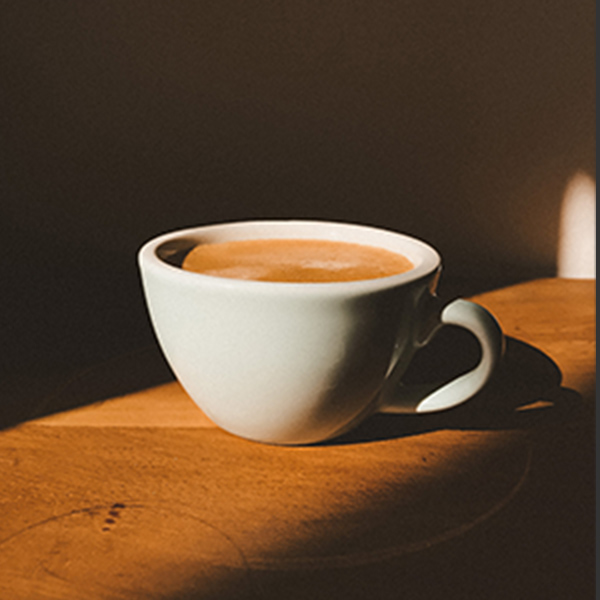
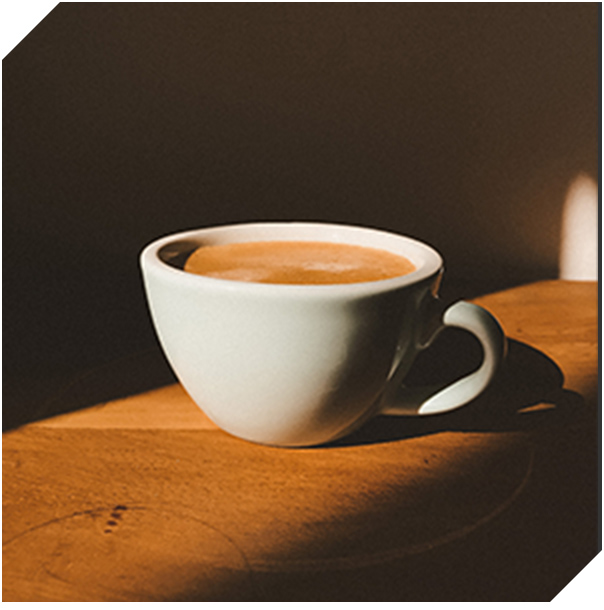
メニューページ・コンタクトページトップ画像変更

diff --git a/menupage/css/menupage.css b/menupage/css/menupage.css
@@ -12,6 +12,7 @@ body {
 #menutopimg {
     width: 100%;
     margin: 0 auto;
+    position: relative;
 }
 
 #menutopimg img {
@@ -19,6 +20,14 @@ body {
     margin: 0 auto;
 }
 
+#menutopinner {
+    position: absolute;
+    top: 34%;
+    left: 20%;
+    font-size: 1.5vw;
+    color: #fff;
+    text-shadow: 1.5px 1px 6px #333;
+}
 
 .ScrollTop.isActive {
     z-index: 4;
@@ -37,11 +46,7 @@ article {
     margin: 0 auto;
 }
 
-h1 {
-    display: inline-block;
-    padding: 15px 30%;
-    color: #333;
-}
+
 
 h2 {
     display: inline-block;
@@ -49,6 +54,7 @@ h2 {
     border-bottom: 2px solid #333;
     margin: 40px 0;
     font-size: 2rem;
+    letter-spacing: 1px;
 }
 
 #coffeemenu {
@@ -69,7 +75,7 @@ h2 {
 #coffeemenu-fg img {
     width: 100%;
     height: auto;
-    opacity: 0.9;
+    opacity: 0.8;
 }
 
 figure {
@@ -105,7 +111,7 @@ figcaption {
 #sandwichmenu-fg img {
     width: 100%;
     height: auto;
-    opacity: 0.9;
+    opacity: 0.8;
 }
 
 #menusubtitle {
@@ -129,6 +135,10 @@ figcaption {
 }
 
 @media screen and (max-width:520px) {
+    #menutopinner {
+        left: 40%;
+        font-size: 0.7rem;
+    }
 
     #coffeemenu-fg {
         padding: 0;

diff --git a/js/contactpage.js b/js/contactpage.js
@@ -3,11 +3,9 @@ jQuery(window).on('scroll', function () {
     if (contacttopimgHeight < jQuery(this).scrollTop()) {
         jQuery('#header ul a').addClass('change-color');
         jQuery('#hambicon img').attr('src','../common/img/hambblack@2x.png');
-        jQuery('#header').addClass('headerbg');
     } else {
         jQuery('#header ul a').removeClass('change-color');
         jQuery('#hambicon img').attr('src','../common/img/hambwhite@2x.png');
-        jQuery('#header').removeClass('headerbg');
     }
 });
 
@@ -33,4 +31,10 @@ $(window).on('scroll', function () {
     } else {
         $contactgetop.addClass('isActive');
     }
+});
+
+$(function(){
+    $('#header nav').on('click',function(){
+        $('#header').removeClass('hambset');
+    });
 });

diff --git a/js/menupage.js b/js/menupage.js
@@ -3,11 +3,9 @@ jQuery(window).on('scroll', function () {
     if (menutopimgHeight < jQuery(this).scrollTop()) {
         jQuery('#header ul a').addClass('change-color');
         jQuery('#hambicon img').attr('src','../common/img/hambblack@2x.png');
-        jQuery('#header').addClass('headerbg');
     } else {
         jQuery('#header ul a').removeClass('change-color');
         jQuery('#hambicon img').attr('src','../common/img/hambwhite@2x.png');
-        jQuery('#header').addClass('headerbg');
     }
 });
 
@@ -33,4 +31,10 @@ $(window).on('scroll', function () {
     } else {
         $menupagetop.addClass('isActive');
     }
+});
+
+$(function(){
+    $('#header nav').on('click',function(){
+        $('#header').removeClass('hambset');
+    });
 });

diff --git a/contact/css/contact.css b/contact/css/contact.css
@@ -7,6 +7,7 @@ body {
 }
 
 #contacttopimg {
+    position: relative;
     width: 100%;
     margin: 0 auto;
 }
@@ -16,6 +17,14 @@ body {
     margin: 0 auto;
 }
 
+#contacttopinner {
+    position: absolute;
+    top: 34%;
+    left: 14%;
+    font-size: 1.5vw;
+    color: #fff;
+    text-shadow: 1.5px 1px 6px #333;
+}
 
 .ScrollTop.isActive {
     z-index: 4;
@@ -32,10 +41,4 @@ article {
     width: auto;
     max-width: 1280px;
     margin: 0 auto;
-}
-
-h1 {
-    display: inline-block;
-    padding: 15px 30%;
-    color: #333;
 }

diff --git a/js/pagetop.js b/js/pagetop.js
@@ -14,11 +14,9 @@ jQuery(window).on('scroll', function () {
     if (topimgHeight < jQuery(this).scrollTop()) {
         jQuery('#header ul a').addClass('change-color');
         jQuery('#hambicon img').attr('src','common/img/hambblack@2x.png');
-        jQuery('#header').addClass('headerbg');
     } else {
         jQuery('#header ul a').removeClass('change-color');
         jQuery('#hambicon img').attr('src','common/img/hambwhite@2x.png');
-        jQuery('#header').removeClass('headerbg');
     }
 });
 

diff --git a/contact/index.html b/contact/index.html
@@ -11,6 +11,7 @@
 <body>
     <div id="contacttopimg">
         <img src="img/contactimg.jpg" alt="お問い合わせページ">
+        <div id="contacttopinner"><h1>CONTACT US</h1></div>
         </div>
             <div id="header">
                 <a class="ScrollTop" href="../index.html#top"><img src="../common/img/logo-img.gif" width="75px" alt=""></a>

diff --git a/menupage/index.html b/menupage/index.html
@@ -14,6 +14,7 @@
 <body>
 <div id="menutopimg">
 <img src="img/menuimgtop.jpg" alt="メニューページ">
+<div id="menutopinner"><h1>MENU</h1></div>
 </div>
     <div id="header">
         <a class="ScrollTop" href="../index.html#top"><img src="../common/img/logo-img.gif" width="75px" alt=""></a>

diff --git a/common/css/common.css b/common/css/common.css
@@ -34,7 +34,7 @@ body {
     top: 3%;
     right: 2%;
     color: #fff;
-    font-size: 20px;
+    font-size: 19px;
     z-index: 998;
 }
 
